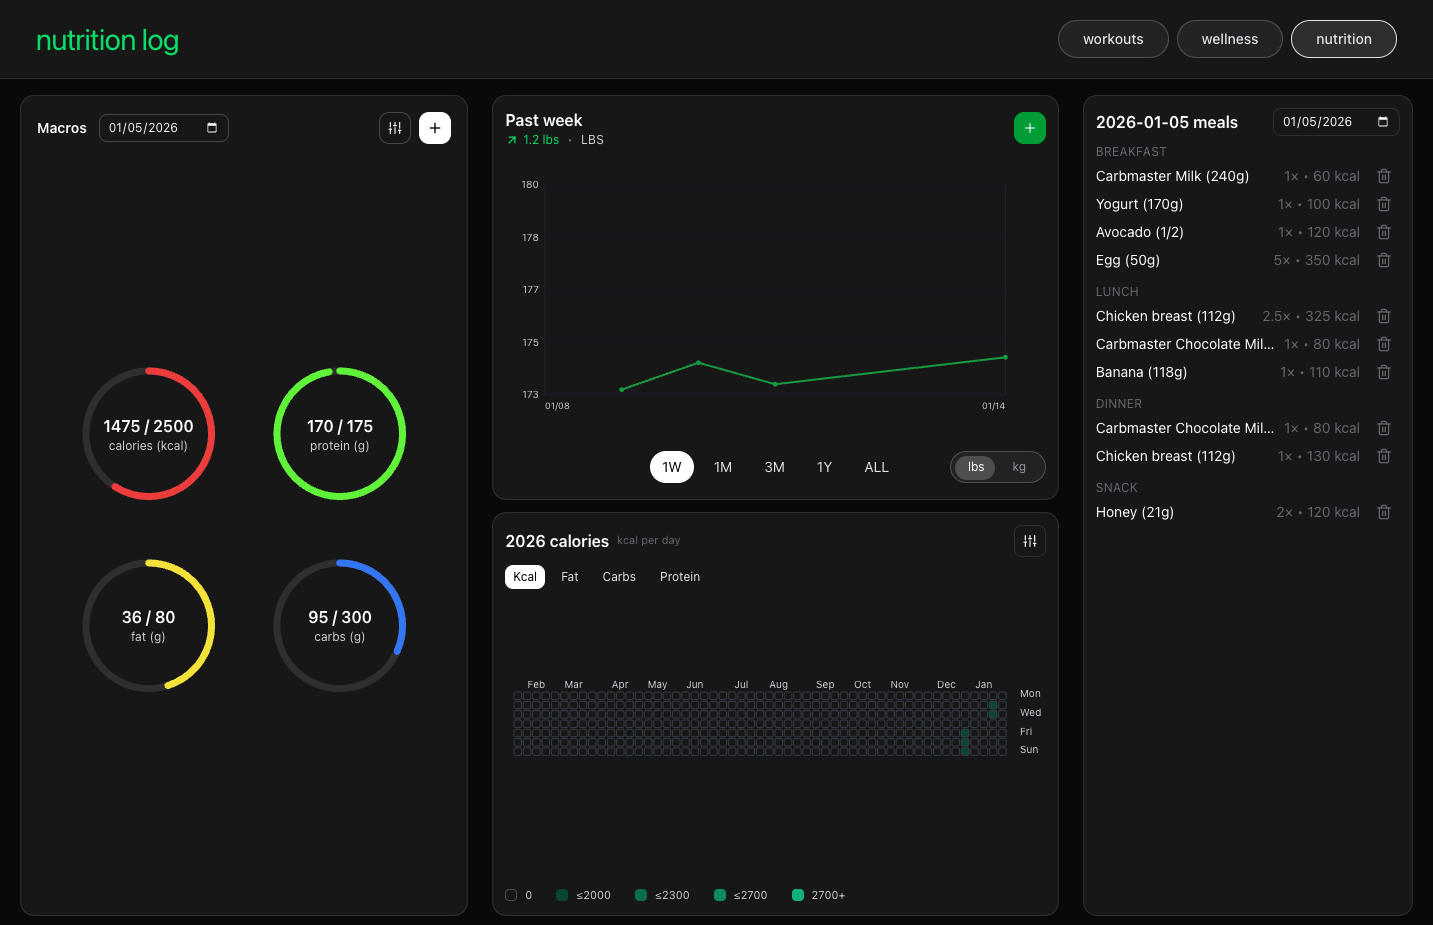
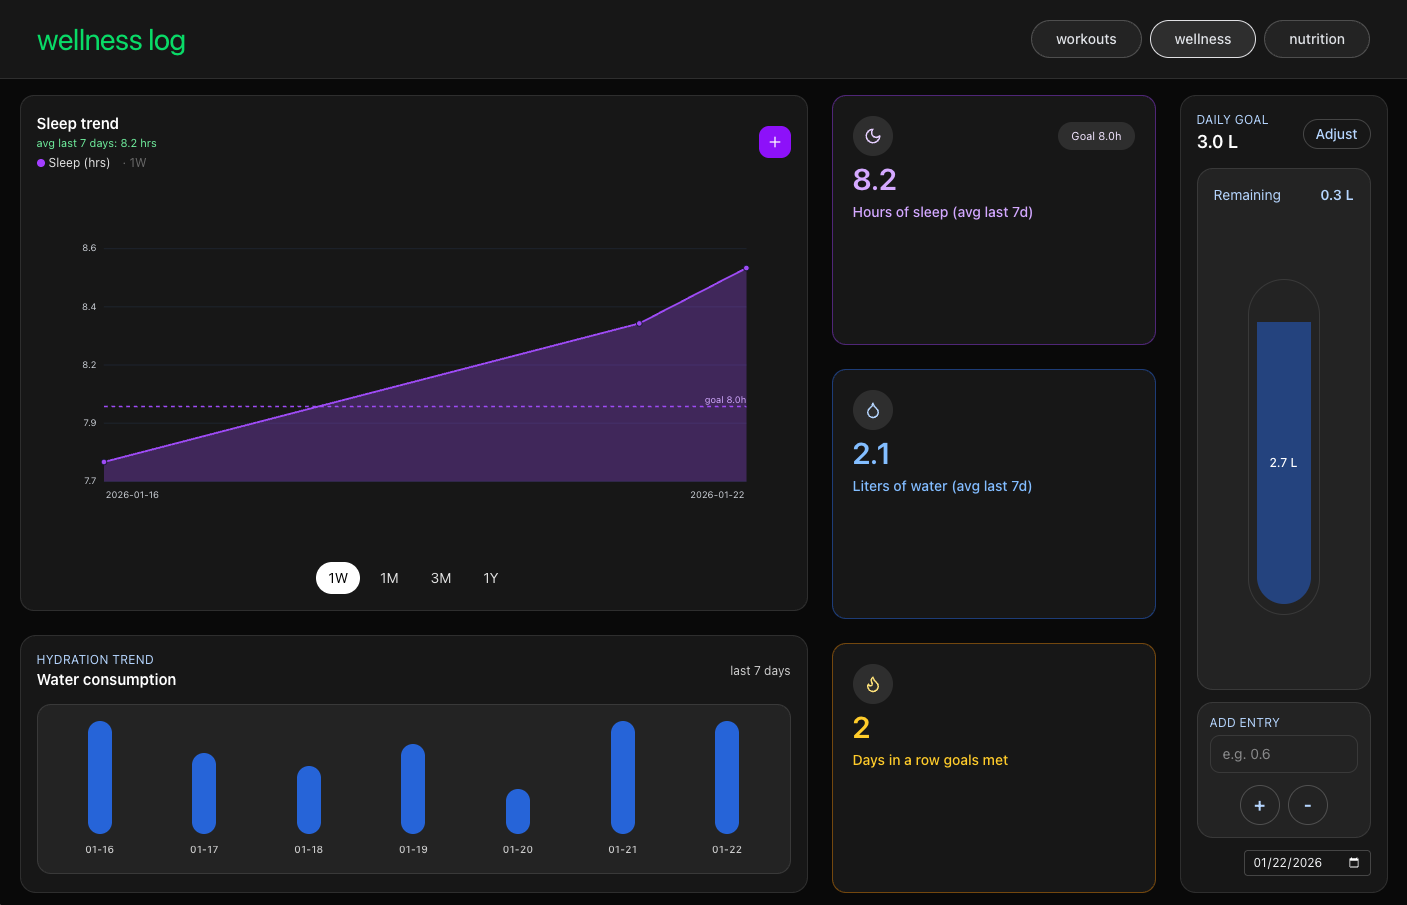
updated water components on wellness log page

diff --git a/app/(main)/dashboard/wellness/page.tsx b/app/(main)/dashboard/wellness/page.tsx
@@ -611,9 +611,12 @@ function WaterBars({ data }: { data: WaterPoint[] }) {
     };
 
     return (
-        <div className="relative flex h-full w-full flex-col overflow-hidden rounded-xl border bg-white p-4 shadow-sm dark:border-white/10 dark:bg-neutral-900 dark:shadow-none">
-            <div className="mb-2 flex items-center justify-between">
-                <h3 className="text-[15px] font-semibold text-black dark:text-white">Water consumption</h3>
+        <div className="relative flex h-full w-full flex-col overflow-hidden rounded-2xl border border-blue-100 bg-white/90 p-4 shadow-sm dark:border-white/10 dark:bg-neutral-900 dark:shadow-none">
+            <div className="mb-3 flex items-center justify-between">
+                <div>
+                    <div className="text-xs uppercase tracking-wide text-blue-600 dark:text-blue-200">Hydration trend</div>
+                    <h3 className="text-[15px] font-semibold text-black dark:text-white">Water consumption</h3>
+                </div>
                 <span className="text-xs text-neutral-500 dark:text-neutral-300">last 7 days</span>
             </div>
 
@@ -622,24 +625,28 @@ function WaterBars({ data }: { data: WaterPoint[] }) {
                     ref={wrapRef}
                     onMouseMove={onMove}
                     onMouseLeave={() => setHover(null)}
-                    className="relative grid h-[150px] w-full grid-cols-7 items-end gap-2 rounded-md bg-white p-3 dark:bg-white/5"
+                    className="relative grid h-[150px] w-full grid-cols-7 items-end gap-3 rounded-xl border border-blue-100 bg-blue-50/60 p-4 dark:border-white/10 dark:bg-white/5 sm:h-[170px]"
                 >
                     {xs.map((d) => (
-                        <div key={d.date} className="flex h-full flex-col items-center justify-end">
+                        <div key={d.date} className="flex h-full flex-col items-center justify-end gap-2">
                             <div
-                                className="w-7 rounded-t bg-blue-400/40 dark:bg-blue-400/60"
+                                className="w-5 rounded-full bg-blue-500/60 transition-[height] dark:bg-blue-500/80 sm:w-6"
                                 style={{ height: `${(d.liters / max) * 100}%` }}
                             />
-                            <div className="mt-1 text-[10px] text-neutral-500 dark:text-neutral-300">{d.date.slice(5)}</div>
+                            <div className="text-[10px] font-medium uppercase tracking-wide text-neutral-500 dark:text-neutral-300">
+                                {d.date.slice(5)}
+                            </div>
                         </div>
                     ))}
 
                     {hover && hoveredBar && (
                         <div
-                            className="pointer-events-none absolute -translate-x-1/2 rounded-md border bg-white px-2 py-1 text-[11px] shadow-sm dark:border-white/10 dark:bg-neutral-900 dark:text-gray-100"
+                            className="pointer-events-none absolute -translate-x-1/2 rounded-md border border-blue-100 bg-white px-2 py-1 text-[11px] shadow-sm dark:border-white/10 dark:bg-neutral-900 dark:text-gray-100"
                             style={{ left: hover.left, top: hover.top }}
                         >
-                            <div>{hoveredBar.liters.toFixed(1)} L</div>
+                            <div className="font-semibold text-blue-700 dark:text-blue-200">
+                                {hoveredBar.liters.toFixed(1)} L
+                            </div>
                         </div>
                     )}
                 </div>
@@ -723,11 +730,18 @@ function WaterToday({
     };
 
     return (
-        <div className="grid h-full grid-rows-[auto_1fr_auto_auto] gap-3 rounded-xl border bg-white p-4 shadow-sm dark:border-white/10 dark:bg-neutral-900 dark:shadow-none">
-            <div className="flex items-center justify-between">
-                <div className="text-lg font-semibold text-black dark:text-white">Goal: {goal.toFixed(1)} L</div>
+        <div className="grid h-full grid-rows-[auto_1fr_auto_auto] gap-3 rounded-2xl border border-blue-100 bg-white p-4 shadow-sm dark:border-white/10 dark:bg-neutral-900 dark:shadow-none">
+            <div className="flex items-center justify-between gap-3">
+                <div>
+                    <div className="text-xs uppercase tracking-wide text-blue-600 dark:text-blue-200">
+                        Daily goal
+                    </div>
+                    <div className="text-lg font-semibold text-black dark:text-white">
+                        {goal.toFixed(1)} L
+                    </div>
+                </div>
                 <button
-                    className="rounded-full border px-3 py-1 text-sm dark:border-white/20 dark:text-gray-100 dark:hover:bg-white/10"
+                    className="rounded-full border border-blue-200 px-3 py-1 text-sm font-medium text-blue-700 hover:bg-blue-50 dark:border-white/20 dark:text-blue-200 dark:hover:bg-white/10"
                     onClick={async () => {
                         const s = prompt('Set daily water goal (L):', goal.toString());
                         if (!s) return;
@@ -736,17 +750,18 @@ function WaterToday({
                         await setGoal(clamp(n, 0.1, 10));
                     }}
                 >
-                    Set
+                    Adjust
                 </button>
             </div>
 
             {/* Middle area — centers the gauge; +20px height */}
-            <div className="flex min-h-0 flex-1 flex-col rounded-2xl bg-white/70 p-4 dark:bg-white/5">
-                <div className="text-sm text-blue-900/80 dark:text-blue-200">
-                    Remaining: {remaining.toFixed(1)} L
+            <div className="flex min-h-0 flex-1 flex-col rounded-2xl border border-blue-100 bg-blue-50/60 p-4 dark:border-white/10 dark:bg-white/5">
+                <div className="flex items-center justify-between text-sm text-blue-900/80 dark:text-blue-200">
+                    <span>Remaining</span>
+                    <span className="font-semibold">{remaining.toFixed(1)} L</span>
                 </div>
                 <div className="flex flex-1 items-center justify-center">
-                    <div className="relative mx-auto mt-4 flex h-60 w-20 items-end rounded-full bg-blue-50 dark:bg-white/10 sm:h-[21rem]">
+                    <div className="relative mx-auto mt-4 flex h-60 w-[4.5rem] items-end rounded-full border border-blue-100 bg-white dark:border-white/10 dark:bg-transparent sm:h-[21rem]">
                         {(() => {
                             const isFull = pct >= 0.999;
                             const radiusClass = isFull
@@ -754,10 +769,10 @@ function WaterToday({
                                 : 'rounded-b-full rounded-t-none';
                             return (
                                 <div
-                                    className={`absolute left-2 right-2 ${radiusClass} bg-blue-400/30 flex items-center justify-center`}
+                                    className={`absolute inset-x-2 ${radiusClass} bg-blue-500/40 backdrop-blur flex items-center justify-center transition-[height]`}
                                     style={{
-                                        height: `calc((100% - 1rem) * ${pct})`,
-                                        bottom: '0.5rem',
+                                        height: `calc((100% - 1.25rem) * ${pct})`,
+                                        bottom: '0.6rem',
                                     }}
                                 >
                                     {consumed > 0 && (
@@ -772,26 +787,35 @@ function WaterToday({
                 </div>
             </div>
 
-            <div className="flex items-center gap-2">
-                <input
-                    value={val}
-                    onChange={(e) => setVal(e.target.value)}
-                    placeholder="e.g. 0.6"
-                    inputMode="decimal"
-                    className="w-full rounded-md border px-3 py-2 outline-none dark:border-white/20 dark:bg-transparent dark:text-gray-100"
-                />
-                <button
-                    className="shrink-0 rounded-md border px-3 py-2 text-blue-700 hover:bg-blue-50 dark:border-white/20 dark:text-blue-200 dark:hover:bg-white/10"
-                    onClick={handleAdd}
-                >
-                    +
-                </button>
-                <button
-                    className="shrink-0 rounded-md border px-3 py-2 text-blue-700 hover:bg-blue-50 dark:border-white/20 dark:text-blue-200 dark:hover:bg-white/10"
-                    onClick={handleRemove}
-                >
-                    -
-                </button>
+            <div className="flex flex-col gap-3 rounded-2xl border border-blue-100 bg-blue-50/60 p-3 dark:border-white/10 dark:bg-white/5">
+                <div className="flex-1">
+                    <div className="text-xs uppercase tracking-wide text-blue-700 dark:text-blue-200 whitespace-nowrap">
+                        Add entry
+                    </div>
+                    <input
+                        value={val}
+                        onChange={(e) => setVal(e.target.value)}
+                        placeholder="e.g. 0.6"
+                        inputMode="decimal"
+                        className="mt-1 w-full rounded-lg border border-blue-100 bg-white px-3 py-2 text-sm text-blue-900 outline-none focus:ring-2 focus:ring-blue-200 dark:border-white/10 dark:bg-transparent dark:text-gray-100 dark:focus:ring-white/20"
+                    />
+                </div>
+                <div className="flex w-full items-center justify-center gap-2">
+                    <button
+                        className="flex h-10 w-10 items-center justify-center rounded-full border border-blue-200 text-blue-700 transition hover:bg-blue-100 dark:border-white/20 dark:text-blue-200 dark:hover:bg-white/10"
+                        onClick={handleAdd}
+                        aria-label="Add water"
+                    >
+                        <span className="text-lg font-semibold leading-none">+</span>
+                    </button>
+                    <button
+                        className="flex h-10 w-10 items-center justify-center rounded-full border border-blue-200 text-blue-700 transition hover:bg-blue-100 dark:border-white/20 dark:text-blue-200 dark:hover.bg-white/10"
+                        onClick={handleRemove}
+                        aria-label="Remove water"
+                    >
+                        <span className="text-lg font-semibold leading-none">-</span>
+                    </button>
+                </div>
             </div>
 
             <div className="flex justify-end">
